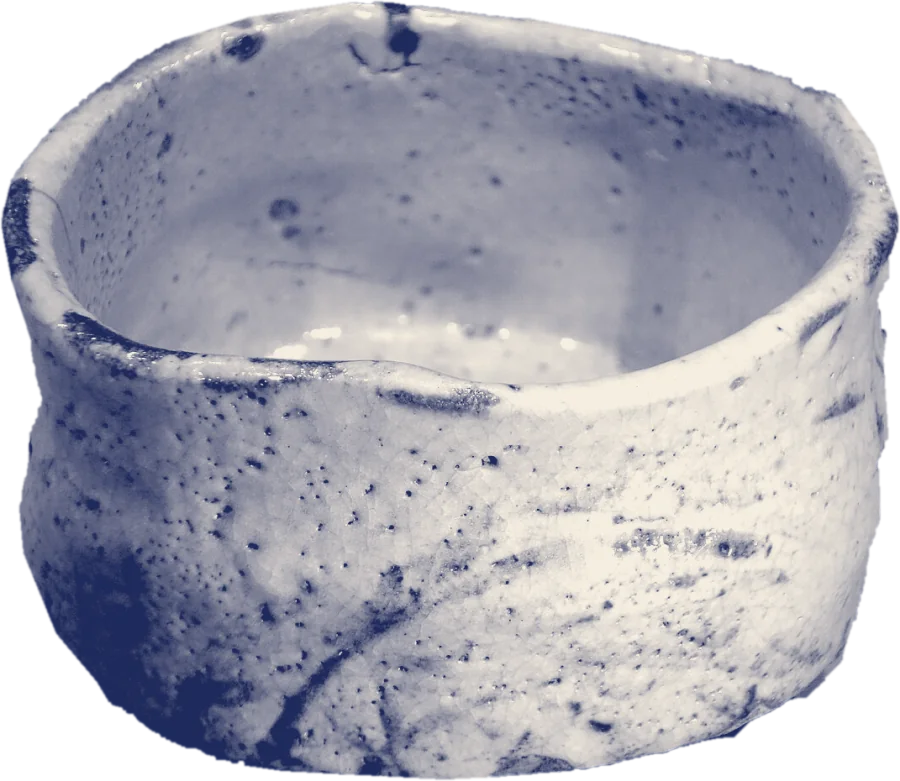
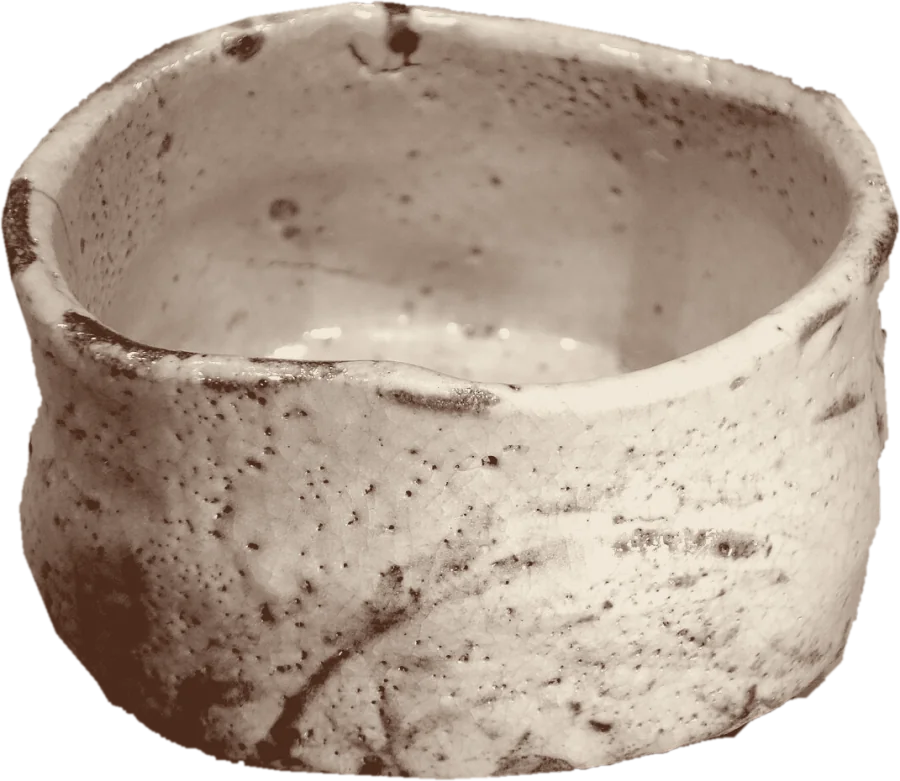
examples: 陶器市の最初の画面を窯の町の雰囲気に（のぼりの筆の字の縦書き・織部／志野／鉄釉の3色・窯の印）
Claude-Session: https://claude.ai/code/session_01C7KHkfC2ABxbFbXkixZfP4

diff --git a/examples/toukiichi/index.html b/examples/toukiichi/index.html
@@ -7,7 +7,7 @@
 <meta name="description" content="岐阜県瀬戸ノ口町の陶器市。2027年5月3日（月・祝）・4日（火・祝）に、窯元41軒が本町通りほかに並びます。会場マップ・出店窯元・イベント・アクセス・雨天時のご案内。">
 <link rel="preconnect" href="https://fonts.googleapis.com">
 <link rel="preconnect" href="https://fonts.gstatic.com" crossorigin>
-<link href="https://fonts.googleapis.com/css2?family=Fraunces:opsz,wght,SOFT,WONK@9..144,900,100,1&family=Caveat+Brush&family=Noto+Sans+JP:wght@400;700&family=Shippori+Mincho+B1:wght@500&family=Klee+One:wght@600&display=swap" rel="stylesheet">
+<link href="https://fonts.googleapis.com/css2?family=Yuji+Boku&family=Noto+Sans+JP:wght@400;700&family=Shippori+Mincho+B1:wght@500;800&family=Klee+One:wght@600&display=swap" rel="stylesheet">
 <script type="application/ld+json">
 {"@context":"https://schema.org","@type":"Event","name":"第38回 瀬戸ノ口陶器市","startDate":"2027-05-03T09:00+09:00","endDate":"2027-05-04T15:00+09:00","eventStatus":"https://schema.org/EventScheduled","eventAttendanceMode":"https://schema.org/OfflineEventAttendanceMode","isAccessibleForFree":true,"location":{"@type":"Place","name":"瀬戸ノ口駅前広場・本町通り・窯垣の小径・旧瀬戸ノ口小学校・登り窯跡広場","address":{"@type":"PostalAddress","addressRegion":"岐阜県","addressLocality":"瀬戸ノ口町","addressCountry":"JP"}},"organizer":{"@type":"Organization","name":"瀬戸ノ口陶器市実行委員会"},"description":"窯元41軒が並ぶ2日間の陶器市（架空の催し・site-skills の使用例）"}
 </script>
@@ -22,9 +22,9 @@
   - 小さな手がかりは1つ：のぼり（最初の画面の「第三十八回」の縦の旗と、章の題の左の竿）。
 */
 :root{
-  --paper:#fff; --kinari:#f6eee0; --kaiyu:#f1dccb; --sumi:#1b1f33; --rule:#d9cbb8; --mute:#4b4a5c; --pale:#f1e6d6;
-  --ai:#1f2a5c; --tsuchi:#b34a24; --oribe:#1f2a5c; --shu:#b2441d; --shino:#f6eee0;
-  --display:"Fraunces","Shippori Mincho B1",serif; --brush:"Caveat Brush",cursive;
+  --paper:#fff; --kinari:#f1e8d8; --kaiyu:#f1dccb; --sumi:#2a1a12; --rule:#d9cbb8; --mute:#4b4a5c; --pale:#f1e6d6;
+  --ai:#4a2a1c; --tsuchi:#2f5d45; --oribe:#2f5d45; --shu:#9a3b1e; --shino:#f1e8d8;
+  --fude:"Yuji Boku","Shippori Mincho B1",serif;
   --ease:cubic-bezier(.25,.46,.45,.94); --t1:.1s; --t2:.2s; --t3:.4s;
   --mincho:"Shippori Mincho B1","Hiragino Mincho ProN","Yu Mincho",serif;
   --hand:"Klee One","Shippori Mincho B1",serif;
@@ -257,42 +257,37 @@ dialog.skills::backdrop{background:rgba(26,23,20,.5)}
   *,*::before,*::after{transition-duration:0s!important;animation:none!important}
 }
 
-/* 最初の画面（2026-11-07 の方向）：陶土の朱を1色に塗った地に、画面幅いっぱいの英字の名前、その前に藍と生成りの2色に置き換えて切り抜いた美濃の器4つ（大きさを変え、右下と左の外へはみ出す）。
-   3色：陶土の朱 #b34a24（地）・藍 #1f2a5c（器の影・字）・生成り #f6eee0（名前・器の光）。飾りは手書きの英字1つと星形1つ。日本語は右端の縦書き1行だけ。 */
+/* 最初の画面（2026-11-07 二度目）：雰囲気は窯の町の陶器市の世界から。織部の緑を1色に塗った地に、のぼりの筆の字で縦に大きく「瀬戸ノ口 陶器市」。
+   その前に、鉄釉の茶→志野の白の2色に置き換えて切り抜いた美濃焼4つ。飾りは窯の印（陶印）の丸1つで「三十八」。日本語は名前・日付・行き方だけ。
+   3色：織部の緑 #2f5d45（地）・志野の白 #f1e8d8（名前・器の光）・鉄釉の茶 #4a2a1c（器の影・印の字・ボタン）。 */
 .hero{position:relative;background:var(--tsuchi);color:var(--kinari);overflow:hidden;height:clamp(600px,calc(100svh - 100px),860px)}
-.hero::before{content:"";position:absolute;left:var(--pad);right:var(--pad);top:56px;height:1px;background:rgba(246,238,224,.55)}
-.hero .name{position:absolute;left:0;right:0;top:calc(56px + 4%);margin:0;text-align:center;font:900 clamp(52px,12.6vw,200px)/.86 var(--display);font-variation-settings:"SOFT" 100,"WONK" 1,"opsz" 144;letter-spacing:-.02em;color:var(--kinari);white-space:nowrap}
-.hero .name .sub{display:block;font-size:.34em;letter-spacing:.14em;margin-top:.12em;font-variation-settings:"SOFT" 100,"opsz" 144}
-.ware{position:absolute;height:auto;filter:drop-shadow(0 18px 22px rgba(31,42,92,.28))}
-.w-ozara{width:37%;left:30%;top:calc(56px + 4% + 15.4vw);transform:rotate(-6deg)}
-.w-chawan{width:39%;right:-6%;bottom:-8%}
-.w-oribe{width:12%;left:10%;top:2%;transform:rotate(11deg)}
-.w-muko{width:14%;left:64%;top:8%;transform:rotate(-7deg)}
-.hand{position:absolute;z-index:2;left:13%;top:60%;margin:0;font:400 clamp(30px,3.4vw,52px)/1 var(--brush);color:var(--kinari);transform:rotate(-8deg)}
-.star{position:absolute;right:21%;top:44%;width:clamp(96px,10vw,148px);height:auto}
-.when{position:absolute;left:var(--pad);top:68%;margin:0;font:900 clamp(26px,2.4vw,36px)/1.2 var(--display);letter-spacing:.06em;color:var(--kinari)}
-.hero .go{position:absolute;left:var(--pad);top:calc(68% + 64px);display:inline-flex;align-items:center;height:48px;padding:0 26px;border-radius:24px;background:var(--ai);color:var(--kinari);font:700 15px/1 var(--gothic);text-decoration:none}
-.tate{position:absolute;z-index:2;right:16px;top:calc(56px + 5%);margin:0;writing-mode:vertical-rl;font:500 15px/1.6 var(--mincho);letter-spacing:.2em;color:var(--kinari)}
-.hero .credit{position:absolute;left:var(--pad);right:170px;bottom:10px;margin:0;font:400 13px/1.4 var(--gothic);color:var(--kinari);white-space:nowrap;overflow:hidden;text-overflow:ellipsis}
+.hero .name{position:absolute;right:9%;top:5%;margin:0;writing-mode:vertical-rl;font:400 clamp(80px,9.6vw,140px)/1.12 var(--fude);letter-spacing:.04em;color:var(--kinari)}
+.hero .name span{display:block}
+.hero .name .l2{margin-top:1.1em}
+.ware{position:absolute;height:auto;filter:drop-shadow(0 16px 20px rgba(20,30,22,.35))}
+.w-ozara{width:38%;left:6%;bottom:-14%;transform:rotate(-7deg)}
+.w-chawan{width:30%;left:41%;bottom:-17%}
+.w-oribe{width:15%;left:44%;top:14%;transform:rotate(10deg)}
+.w-muko{width:17%;left:28%;top:36%;transform:rotate(-6deg)}
+.inn{position:absolute;right:calc(9% + 2.5 * clamp(80px,9.6vw,140px));top:11%;width:clamp(92px,8.6vw,124px);height:auto}
+.hero .date{position:absolute;left:var(--pad);top:9%;margin:0;font:800 clamp(30px,3.1vw,46px)/1.25 var(--mincho);color:var(--kinari)}
+.hero .date small{display:block;font-size:.45em;font-weight:500;letter-spacing:.1em}
+.hero .go{position:absolute;left:var(--pad);top:calc(9% + clamp(118px,10vw,150px));display:inline-flex;align-items:center;height:48px;padding:0 26px;border-radius:24px;background:var(--kinari);color:var(--ai);font:700 15px/1 var(--gothic);text-decoration:none}
+.hero .credit{position:absolute;left:var(--pad);right:170px;bottom:10px;margin:0;font:400 13px/1.4 var(--gothic);color:var(--kinari);white-space:nowrap;overflow:hidden;text-overflow:ellipsis;z-index:2;text-shadow:0 0 3px #2a1a12,0 0 6px #2a1a12}
 .hero .credit a{color:inherit}
 @media (max-width:860px){
-  .hero{height:auto;min-height:0;padding:44px 0 0}
-  .hero .name{position:relative;top:0;font-size:12.2vw}
-  .hero::before{top:22px}
-  .hero .credit{top:auto}
-  .hero .stack{position:relative;height:112vw;margin-top:-12vw}
-  .w-ozara{width:66%;left:4%;top:4%}
-  .w-chawan{width:72%;right:-14%;bottom:-6%}
-  .w-oribe{width:40%;left:-10%;top:auto;bottom:2%}
-  .w-muko{width:26%;left:auto;right:3%;top:-12vw}
-  .w-ozara{top:13%}
-  .hand{left:auto;right:7%;top:auto;bottom:-13%;font-size:30px}
-  .star{right:auto;left:62%;top:42%;width:86px}
-  .hero .go,.when{position:relative;left:auto;top:auto;bottom:auto;margin:0 var(--pad)}
-  .hero .go{margin-top:14px;width:calc(100% - var(--pad)*2);justify-content:center;height:52px}
-  .when{display:block;margin-top:14px}
-  .hero .credit{position:relative;left:auto;right:auto;bottom:auto;display:block;white-space:normal;padding:14px 150px 16px var(--pad);text-align:left}
-  .tate{display:none}
+  .hero{height:auto;padding:28px 0 0}
+  .hero .date,.hero .go{position:relative;left:auto;top:auto;margin:0 var(--pad)}
+  .hero .date{font-size:30px}
+  .hero .go{margin-top:14px}
+  .hero .stack{position:relative;height:150vw;margin-top:8px}
+  .hero .name{right:5%;top:0;font-size:19vw}
+  .inn{right:auto;left:6%;top:4%;width:84px}
+  .w-ozara{width:70%;left:-10%;bottom:4%}
+  .w-chawan{width:54%;left:auto;right:-6%;bottom:-8%}
+  .w-oribe{width:30%;left:10%;top:26%}
+  .w-muko{display:none}
+  .hero .credit{position:relative;left:auto;right:auto;bottom:auto;display:block;white-space:normal;padding:12px 150px 16px var(--pad)}
 }
 </style>
 </head>
@@ -315,19 +310,17 @@ dialog.skills::backdrop{background:rgba(26,23,20,.5)}
 
 <main id="top">
   <section class="hero" aria-labelledby="h-title">
-    <h1 class="name" id="h-title"><span lang="en">SETONOKUCHI</span><span class="sub" lang="en">POTTERY FAIR</span><span class="vh">瀬戸ノ口陶器市</span></h1>
-    <p class="tate">第三十八回　瀬戸ノ口陶器市</p>
-    <div class="stack">
-      <p class="hand" lang="en" aria-hidden="true">the 38th!</p>
-      <img class="ware w-ozara" src="photos/cut-ozara.webp" width="900" height="715" alt="">
-      <img class="ware w-oribe" src="photos/cut-oribe.webp" width="900" height="787" alt="">
-      <img class="ware w-muko" src="photos/cut-mukouzuke.webp" width="900" height="446" alt="">
-      <img class="ware w-chawan" src="photos/cut-chawan.webp" width="900" height="782" alt="">
-      <svg class="star" viewBox="0 0 120 120" role="img" aria-label="窯元41軒"><path d="M60 4 70 34 101 22 90 52 118 64 88 74 98 105 68 92 56 119 46 90 15 102 27 72 2 58 32 47 22 16 52 29Z" fill="#1f2a5c"/><text x="60" y="58" text-anchor="middle" font-family="Fraunces, serif" font-weight="900" font-size="30" fill="#f6eee0">41</text><text x="60" y="80" text-anchor="middle" font-family="Fraunces, serif" font-weight="900" font-size="15" letter-spacing="1.5" fill="#f6eee0">KILNS</text></svg>
-    </div>
-    <p class="when" lang="en">MAY 3–4, 2027</p>
+    <p class="date">5月3日・4日<small>2027年　月曜・火曜の祝日</small></p>
     <a class="go" href="#access">行き方を調べる</a>
-    <p class="credit">器：美濃焼4点の写真（Daderot・Wmpearl, CC0 1.0／<a href="https://commons.wikimedia.org/w/index.php?curid=31408730">Wikimedia Commons</a>）を切り抜いて藍と生成りに色を変えた</p>
+    <div class="stack">
+      <h1 class="name" id="h-title"><span>瀬戸ノ口</span><span class="l2">陶器市</span></h1>
+      <img class="ware w-oribe" src="photos/cut-oribe.webp" width="900" height="788" alt="">
+      <img class="ware w-muko" src="photos/cut-mukouzuke.webp" width="900" height="445" alt="">
+      <img class="ware w-ozara" src="photos/cut-ozara.webp" width="900" height="740" alt="">
+      <img class="ware w-chawan" src="photos/cut-chawan.webp" width="900" height="781" alt="">
+      <svg class="inn" viewBox="0 0 120 120" role="img" aria-label="第三十八回"><circle cx="60" cy="60" r="56" fill="#f1e8d8"/><circle cx="60" cy="60" r="47" fill="none" stroke="#4a2a1c" stroke-width="3"/><text x="60" y="56" text-anchor="middle" font-family="Yuji Boku, serif" font-size="25" fill="#4a2a1c">三十八</text><text x="60" y="84" text-anchor="middle" font-family="Yuji Boku, serif" font-size="22" fill="#4a2a1c">回</text></svg>
+    </div>
+    <p class="credit">器：美濃焼4点の写真（Daderot・Wmpearl, CC0 1.0／<a href="https://commons.wikimedia.org/w/index.php?curid=31408730">Wikimedia Commons</a>）を切り抜いて鉄釉の茶と志野の白に色を変えた</p>
   </section>
 
   <div class="wrap">
@@ -611,7 +604,7 @@ var FROM={
 };
 
 var SKILLS=[
- ['最初の画面','site-skills／aesthetic.md「最初の画面の作り方の方向」（2026-11-07）','陶土の朱 #b34a24 の1色の地に、画面幅いっぱいの英字 SETONOKUCHI（Fraunces 900）、その前に美濃焼4つ（志野茶碗・織部角鉢・絵志野大皿・志野向付）を手で輪郭を打って grabCut で切り抜き、藍と生成りの2色に置き換えて大きさを変えて重ねる。飾りは手書きの the 38th! と星形の 41 KILNS、日本語は右端の縦書き1行'],
+ ['最初の画面','site-skills／aesthetic.md「最初の画面の作り方の方向」（2026-11-07）','aesthetic.md「雰囲気は題材の世界から取る」：織部の緑の1色の地に、のぼりの筆の字（Yuji Boku）で縦に大きく「瀬戸ノ口 陶器市」、その前に美濃焼4つ（手で輪郭を打って grabCut で切り抜き、鉄釉の茶→志野の白の2色に）を大きさを変えて重ねる。飾りは窯の印の丸「三十八回」1つ'],
  ['題の書体と太さ','site-skills／aesthetic.md「業種の手本を先に測る」','手本23件のいちばん大きい字は中央値 39.5px・太さ 400（80px 以上が5件）。題は 80px・太さ 500（Shippori Mincho B1）を墨色で。明朝はリュウミン・筑紫明朝・つくしA を使う手本がある'],
  ['本文','site-skills／手本23件の中央値','Noto Sans JP（Web フォントでいちばん多い）400・16px・行間 1.75。本文の色は #000 が10件なので黒に近い <code>#1a1714</code>'],
  ['文字の左端と余白','site-skills／手本23件の中央値','文字の左端 261px → 本文の幅 1000px。何も無い帯 72px（上位1割 199px）→ 章の間 120px'],

diff --git a/examples/toukiichi/README.md b/examples/toukiichi/README.md
@@ -5,7 +5,19 @@
 - ページ：`index.html`（1枚の HTML、約55KB。外部は Google Fonts の3書体〔Noto Sans JP・Shippori Mincho B1・Klee One〕だけ。写真は `photos/`（切り抜いた器4つと登り窯）〔Wikimedia Commons、出典は `photos/credits.json`〕）
 - Artifact：https://claude.ai/artifact/TXFnEFtKe1fwRYM5HVcWpc （非公開。見せるには Artifact の共有メニューから共有する）
   - Artifact の中では「カレンダーに入れる」（.ics のダウンロード）が動かない（ビューアーがダウンロードを許さないため）。`index.html` をブラウザで直接開けば動く
-- 2026-10-26 に4回、2026-11-02・11-05 に1回ずつ、11-06 に4回作り直した。いちばん新しいのは下の「11回目の作り直し」。それより前の記録は「作り直しで変えたこと」
+- 2026-10-26 に4回、2026-11-02・11-05 に1回ずつ、11-06 に4回作り直した。いちばん新しいのは下の「12回目の作り直し」。それより前の記録は「作り直しで変えたこと」
+
+## 12回目の作り直し（2026-11-07）：雰囲気を窯の町から取る
+11回目（陶土の朱・英字 SETONOKUCHI の Fraunces・手書きの the 38th!・星形）は「全然雰囲気に全部合ってない」と言われた。好きと言われた9枚の**見た目**（アメリカの70年代風の英字、NOVA の色）をそのまま当てたため。`aesthetic.md`「雰囲気は題材の世界から取る」に従い、手順（主役を大きく・2〜3色・字を形にする・日本語は少なく）だけ残して、見た目は窯の町の陶器市から取り直した。
+| | 前（11回目） | 後 |
+|---|---|---|
+| 名前 | 英字 SETONOKUCHI / POTTERY FAIR（Fraunces 900） | 日本語「瀬戸ノ口 陶器市」を、のぼりの筆の字（Yuji Boku）で縦に2行、大きく |
+| 色 | 陶土の朱・藍・生成り | 釉の色：織部の緑 `#2f5d45`（地）・志野の白 `#f1e8d8`（名前・器の光）・鉄釉の茶 `#4a2a1c`（器の影・印・字） |
+| 器 | 藍→生成りの2色 | 同じ切り抜き4つを、鉄釉の茶→志野の白の2色に塗り直した |
+| 飾り | 手書きの the 38th!・星形 41 KILNS | 窯の印（陶印）の丸1つ「三十八回」 |
+| 日付 | 英字 MAY 3–4, 2027 | 「5月3日・4日」（明朝）と「2027年　月曜・火曜の祝日」、ボタン「行き方を調べる」 |
+- 下の章の色も同じ3色（章の題の竿は織部の緑、ボタン・文字は鉄釉の茶に近い墨）にそろえた。
+- inspect：FAIL 0（`--allow photo-cover`）。残した WARN：dark-first（織部の緑の地は釉の色で、器の志野の白が明るい側を受け持つ）、jp-head-size（名前をのぼりの字として大きく組む方向のため）、dense-screen（一覧と表）。
 
 ## 11回目の作り直し（2026-11-07）：方向を変える（切り抜いた器と大きな英字の名前）
 ユーザーの指示「その方向で使用例作り直して」。`aesthetic.md` の「最初の画面の作り方の方向」に合わせ、これまでの「静かで本物らしい」最初の画面（生成りの地・のぼりの題・写真3枚・灰釉の面・会場案内図のチラシ）をやめた。出発点はユーザーが好きと言った9枚のうち「NOVA」の形（切り抜いた物が2色になって、大きな英字の名前の前後に浮かぶ）。
